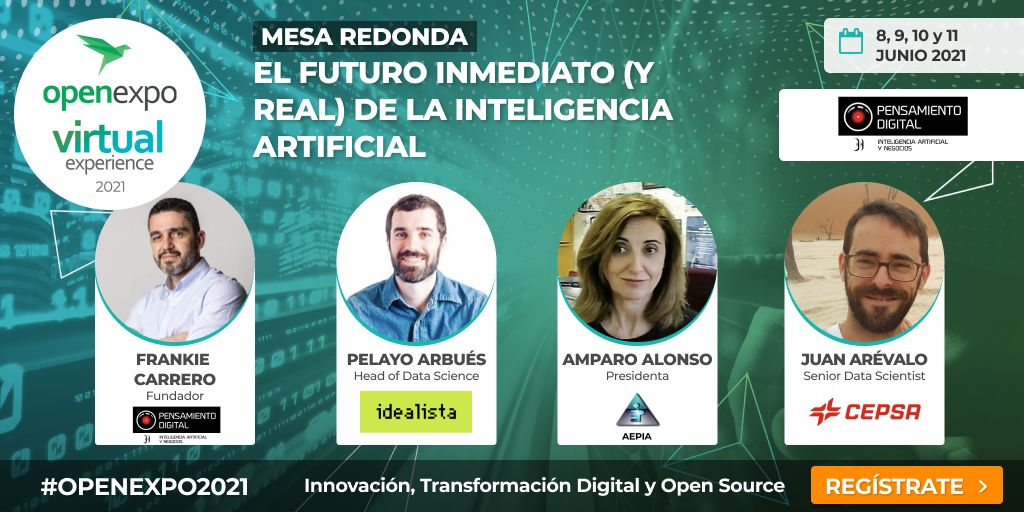
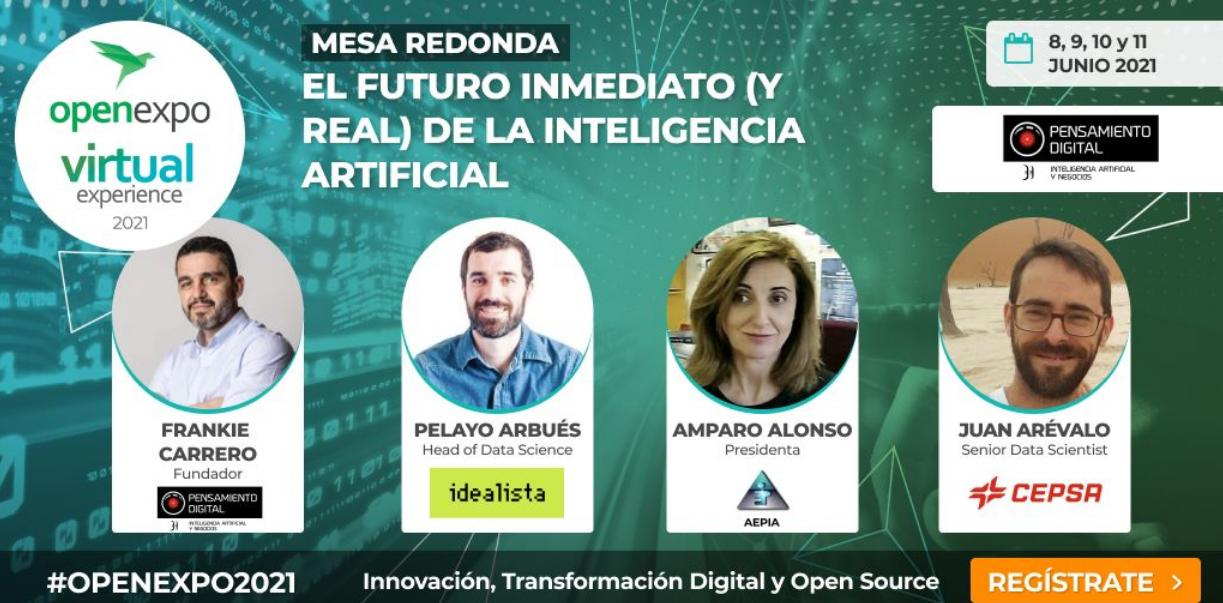
builds

diff --git a/talk/nova_data_science_beyond_hype/index.html b/talk/nova_data_science_beyond_hype/index.html
@@ -233,8 +233,8 @@
   <meta property="og:site_name" content="Pelayo Arbues">
   <meta property="og:url" content="http://pelayoarbues.github.io/talk/nova_data_science_beyond_hype/">
   <meta property="og:title" content="El futuro inmediato (y real) de la Inteligencia Artificial | Pelayo Arbues">
-  <meta property="og:description" content="Discussion panel for Openexpo"><meta property="og:image" content="http://pelayoarbues.github.io/talk/nova_data_science_beyond_hype/featured.png">
-  <meta property="twitter:image" content="http://pelayoarbues.github.io/talk/nova_data_science_beyond_hype/featured.png"><meta property="og:locale" content="en-us">
+  <meta property="og:description" content="Discussion panel for Openexpo"><meta property="og:image" content="http://pelayoarbues.github.io/talk/nova_data_science_beyond_hype/featured.jpg">
+  <meta property="twitter:image" content="http://pelayoarbues.github.io/talk/nova_data_science_beyond_hype/featured.jpg"><meta property="og:locale" content="en-us">
   
     
       <meta property="article:published_time" content="2020-02-02T23:26:22&#43;01:00">
@@ -278,7 +278,7 @@
   
   
   "image": [
-    "http://pelayoarbues.github.io/talk/nova_data_science_beyond_hype/featured.png"
+    "http://pelayoarbues.github.io/talk/nova_data_science_beyond_hype/featured.jpg"
   ],
   
   "startDate": "2021-06-08T11:30:00+01:00",
@@ -549,6 +549,8 @@
 
   
   
+    
+  
 
 
 <div class="article-container pt-3">
@@ -638,9 +640,9 @@
 </div>
 
 
-<div class="article-header article-container featured-image-wrapper mt-4 mb-4" style="max-width: 572px; max-height: 330px;">
+<div class="article-header article-container featured-image-wrapper mt-4 mb-4" style="max-width: 720px; max-height: 413px;">
   <div style="position: relative">
-    <img src="/talk/nova_data_science_beyond_hype/featured.png" alt="" class="featured-image">
+    <img src="/talk/nova_data_science_beyond_hype/featured_hub3f012bb21583ad636913ed042e1723e_29855_720x0_resize_q90_lanczos.jpg" alt="" class="featured-image">
     
   </div>
 </div>

diff --git a/index.html b/index.html
@@ -1407,6 +1407,14 @@
 
 
 
+  
+  
+    
+  
+<a class="btn btn-outline-primary my-1 mr-1 btn-sm" href="https://xtalksai.buzzsprout.com/1806056/9660946-15-pelayo-arbues-data-science-inteligencia-artificial-proptech-innovacion" target="_blank" rel="noopener">
+  Video
+</a>
+
 
 
 
@@ -1751,7 +1759,7 @@
     
     
     <a href="/talk/nova_data_science_beyond_hype/" >
-      <img src="/talk/nova_data_science_beyond_hype/featured_hu6e6430f1261cd6b5913d4010fefa4ae4_161848_150x0_resize_lanczos_2.png" alt="">
+      <img src="/talk/nova_data_science_beyond_hype/featured_hub3f012bb21583ad636913ed042e1723e_29855_150x0_resize_q90_lanczos.jpg" alt="">
     </a>
     
   </div>
@@ -1857,7 +1865,7 @@
     
     
     <a href="/talk/openexpo_mesa_redonda_2021/" >
-      <img src="/talk/openexpo_mesa_redonda_2021/featured_hueecf29fde8a73868ea9b096156262809_104122_150x0_resize_q90_lanczos.jpg" alt="">
+      <img src="/talk/openexpo_mesa_redonda_2021/featured_hu4449e1085505cb6ac3ef7a0af7bc677c_112925_150x0_resize_q90_lanczos.jpg" alt="">
     </a>
     
   </div>

diff --git a/talk/index.html b/talk/index.html
@@ -596,6 +596,14 @@
 
 
 
+  
+  
+    
+  
+<a class="btn btn-outline-primary my-1 mr-1 btn-sm" href="https://xtalksai.buzzsprout.com/1806056/9660946-15-pelayo-arbues-data-science-inteligencia-artificial-proptech-innovacion" target="_blank" rel="noopener">
+  Video
+</a>
+
 
 
 
@@ -940,7 +948,7 @@
     
     
     <a href="/talk/nova_data_science_beyond_hype/" >
-      <img src="/talk/nova_data_science_beyond_hype/featured_hu6e6430f1261cd6b5913d4010fefa4ae4_161848_150x0_resize_lanczos_2.png" alt="">
+      <img src="/talk/nova_data_science_beyond_hype/featured_hub3f012bb21583ad636913ed042e1723e_29855_150x0_resize_q90_lanczos.jpg" alt="">
     </a>
     
   </div>
@@ -1046,7 +1054,7 @@
     
     
     <a href="/talk/openexpo_mesa_redonda_2021/" >
-      <img src="/talk/openexpo_mesa_redonda_2021/featured_hueecf29fde8a73868ea9b096156262809_104122_150x0_resize_q90_lanczos.jpg" alt="">
+      <img src="/talk/openexpo_mesa_redonda_2021/featured_hu4449e1085505cb6ac3ef7a0af7bc677c_112925_150x0_resize_q90_lanczos.jpg" alt="">
     </a>
     
   </div>

diff --git a/talk/openexpo_mesa_redonda_2021/index.html b/talk/openexpo_mesa_redonda_2021/index.html
@@ -640,9 +640,9 @@
 </div>
 
 
-<div class="article-header article-container featured-image-wrapper mt-4 mb-4" style="max-width: 720px; max-height: 360px;">
+<div class="article-header article-container featured-image-wrapper mt-4 mb-4" style="max-width: 720px; max-height: 355px;">
   <div style="position: relative">
-    <img src="/talk/openexpo_mesa_redonda_2021/featured_hueecf29fde8a73868ea9b096156262809_104122_720x0_resize_q90_lanczos.jpg" alt="" class="featured-image">
+    <img src="/talk/openexpo_mesa_redonda_2021/featured_hu4449e1085505cb6ac3ef7a0af7bc677c_112925_720x0_resize_q90_lanczos.jpg" alt="" class="featured-image">
     
   </div>
 </div>

diff --git a/talk/x-talks-ai/index.html b/talk/x-talks-ai/index.html
@@ -595,6 +595,47 @@
 
 
 
+<div class="btn-links mb-3">
+  
+  
+
+
+
+
+
+
+
+
+  
+
+
+
+
+
+
+
+
+
+
+
+
+
+
+
+  
+  
+    
+  
+<a class="btn btn-outline-primary my-1 mr-1" href="https://xtalksai.buzzsprout.com/1806056/9660946-15-pelayo-arbues-data-science-inteligencia-artificial-proptech-innovacion" target="_blank" rel="noopener">
+  Video
+</a>
+
+
+
+
+
+</div>
+
 
 </div>
 
